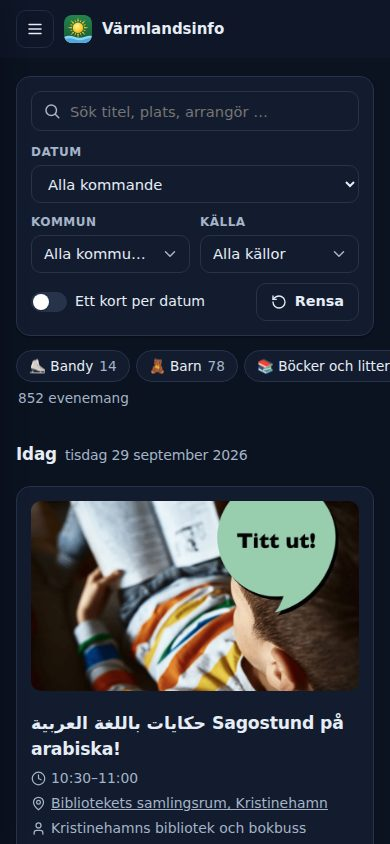
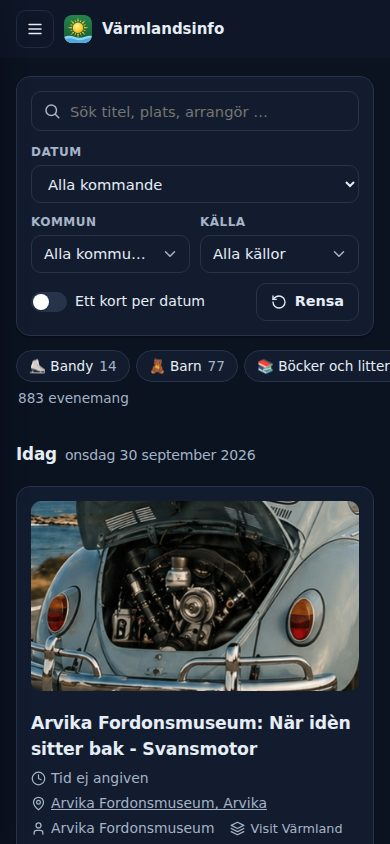
Skärmdumparna visar Handboll (#83)
Alla fem skärmdumparna (lista, kalender, Fråga AI, Motorsport och
mobil) är tagna om med källan och kategorin Handboll. Utan nya
hämtningar: den sparade datan från 2026-09-29 med updated satt till nu
och de sparade bilderna (ett enda bildanrop mot Visit Värmland, som
svarade 429 och inte gjordes om).

Closes #83

Claude-Session: https://claude.ai/code/session_017WWQrYecVv45A9nwoPQfXZ

diff --git a/CLAUDE.md b/CLAUDE.md
@@ -89,7 +89,8 @@ gröna och det finns inga andra grenar eller öppna PR:er.
 
 - **Senaste arbetet:** snabbvalen i Fråga AI borttagna (#77, v0.27.0), källorna Säffle och Kil som gruppen
   Kommunerna (#79, v0.28.0), bara kommuner i filtret Kommun (#81, v0.28.1) och arkitekturbilden med 13 källor och
-  aktuella kodhänvisningar (#80, v0.28.2) och källan Handboll med arkitekturbilden med 14 källor (#82, v0.29.0).
+  aktuella kodhänvisningar (#80, v0.28.2) och källan Handboll med arkitekturbilden med 14 källor (#82, v0.29.0), och skärmdumparna med Handboll (#83, inte
+  släppt, dokumentation).
 - **Öppet:** inga issues.
 - **Möjliga nästa steg** (se Analys av källor som saknas nedan): Tickster (kräver en nyckel som användaren i så fall
   registrerar). Fråga användaren innan det påbörjas.

diff --git a/CHANGELOG.md b/CHANGELOG.md
@@ -6,6 +6,9 @@ Formatet följer [Keep a Changelog](https://keepachangelog.com/sv/1.1.0/) och pr
 
 ## [Unreleased]
 
+### Dokumentation
+- Skärmdumparna visar källan och kategorin Handboll (#83).
+
 ## [0.29.0] - 2026-09-29
 
 ### Tillagt
